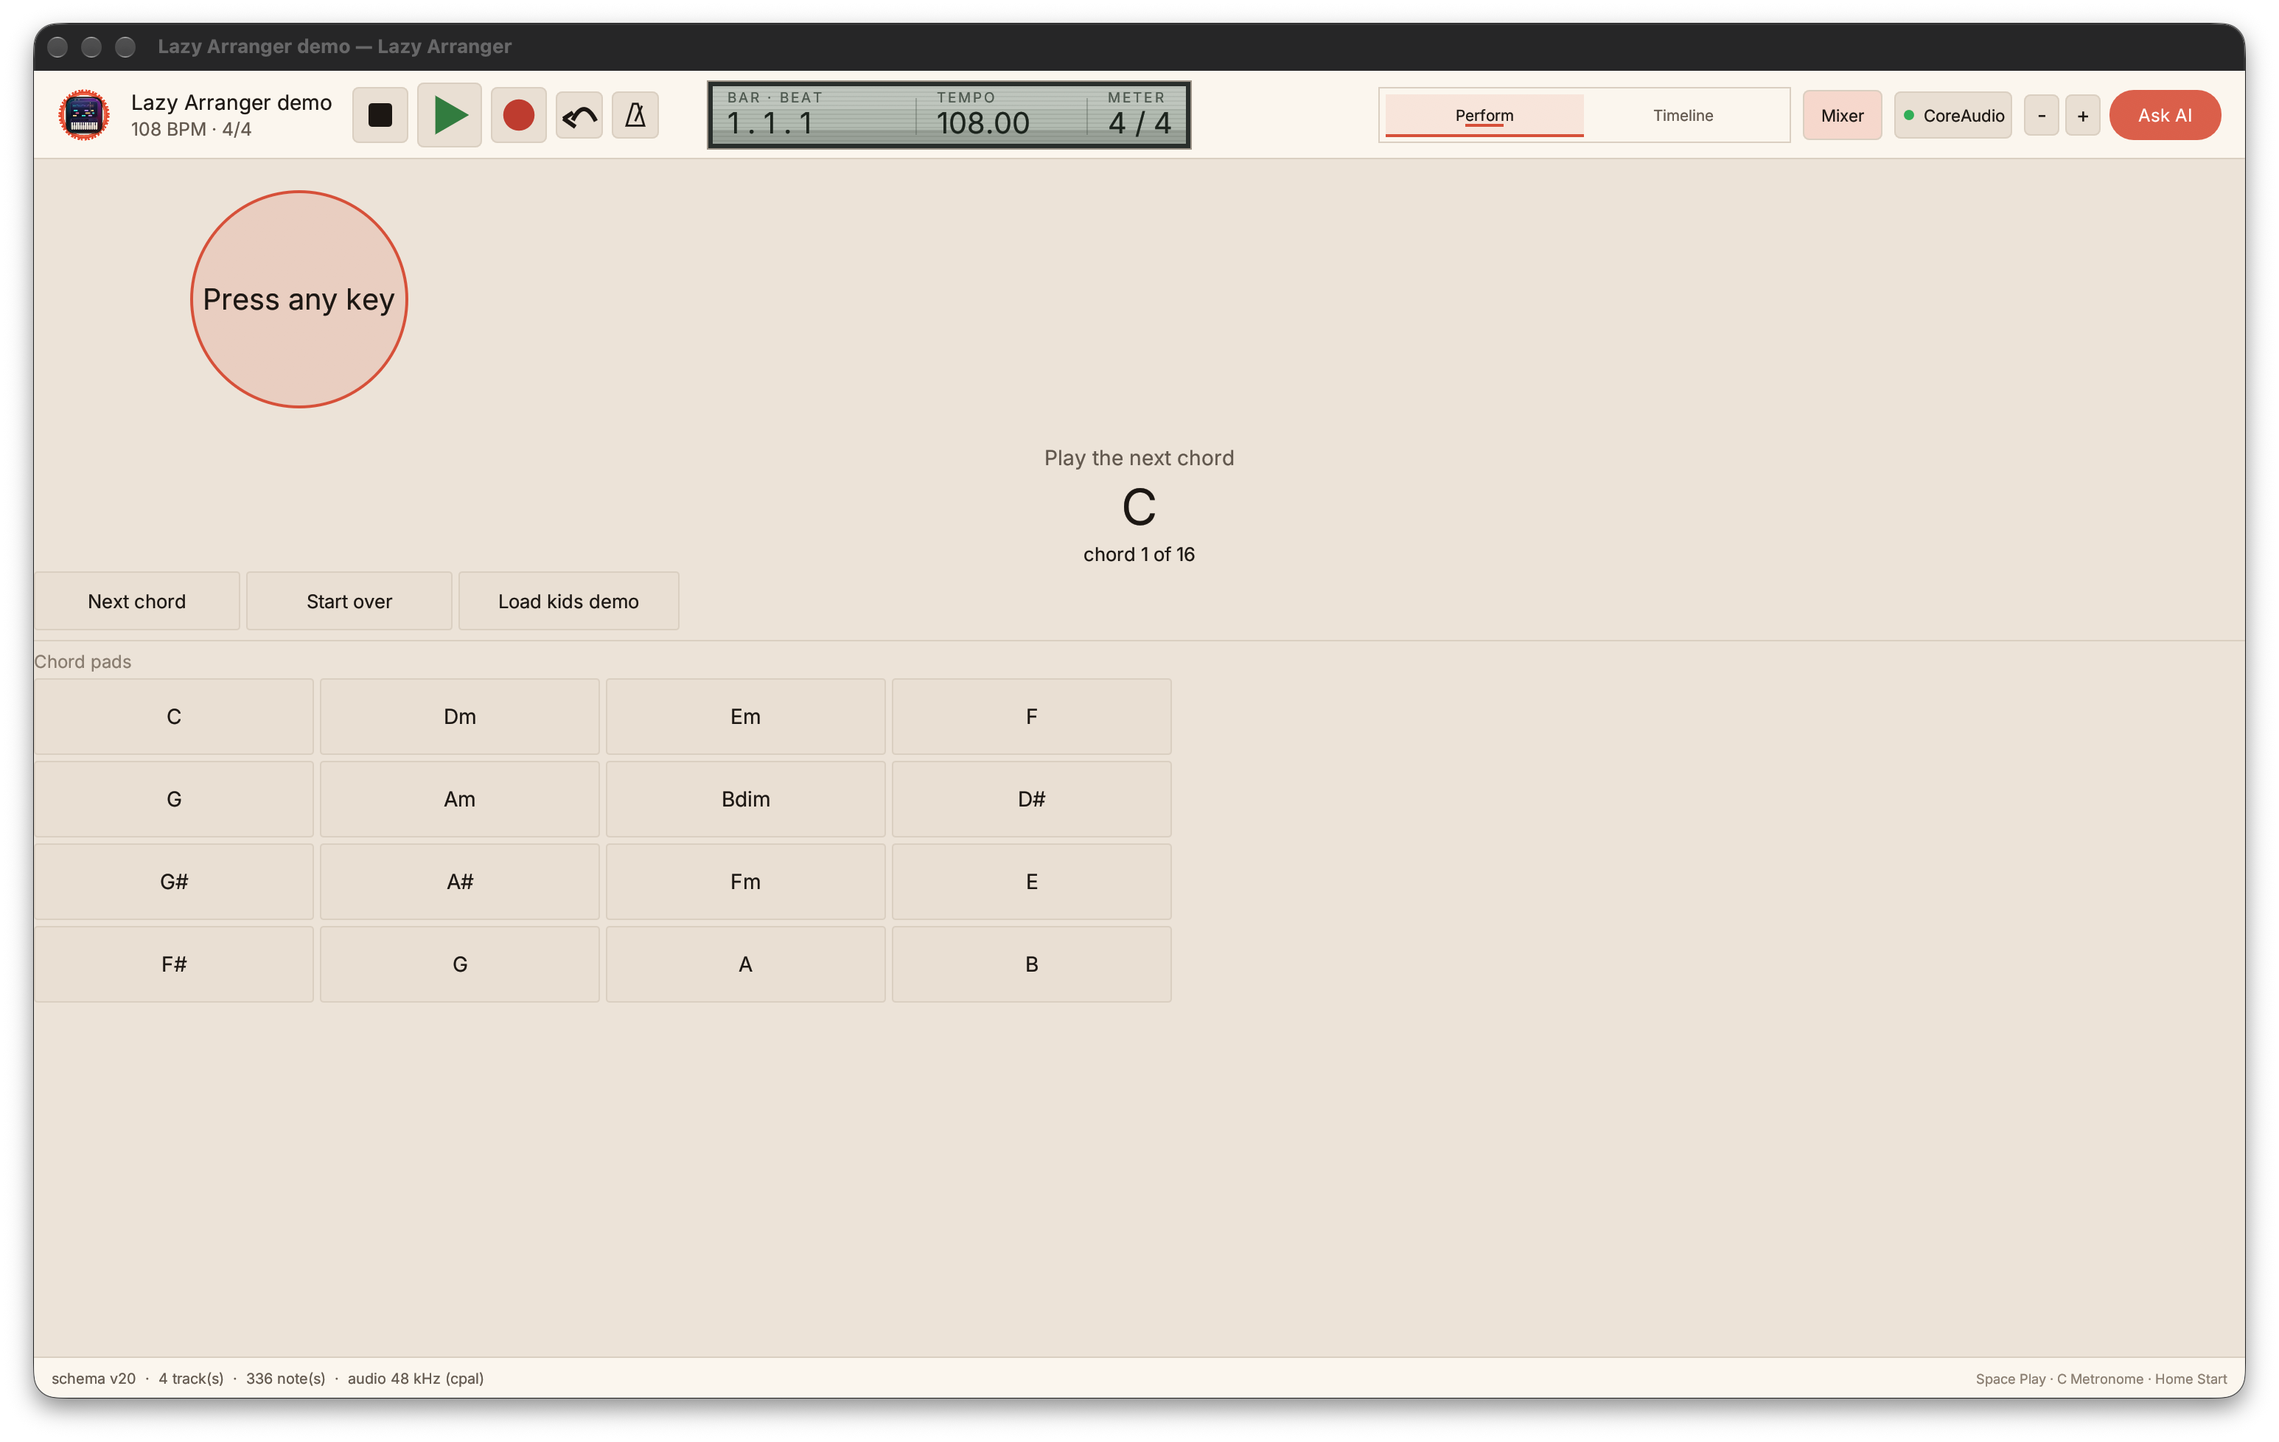
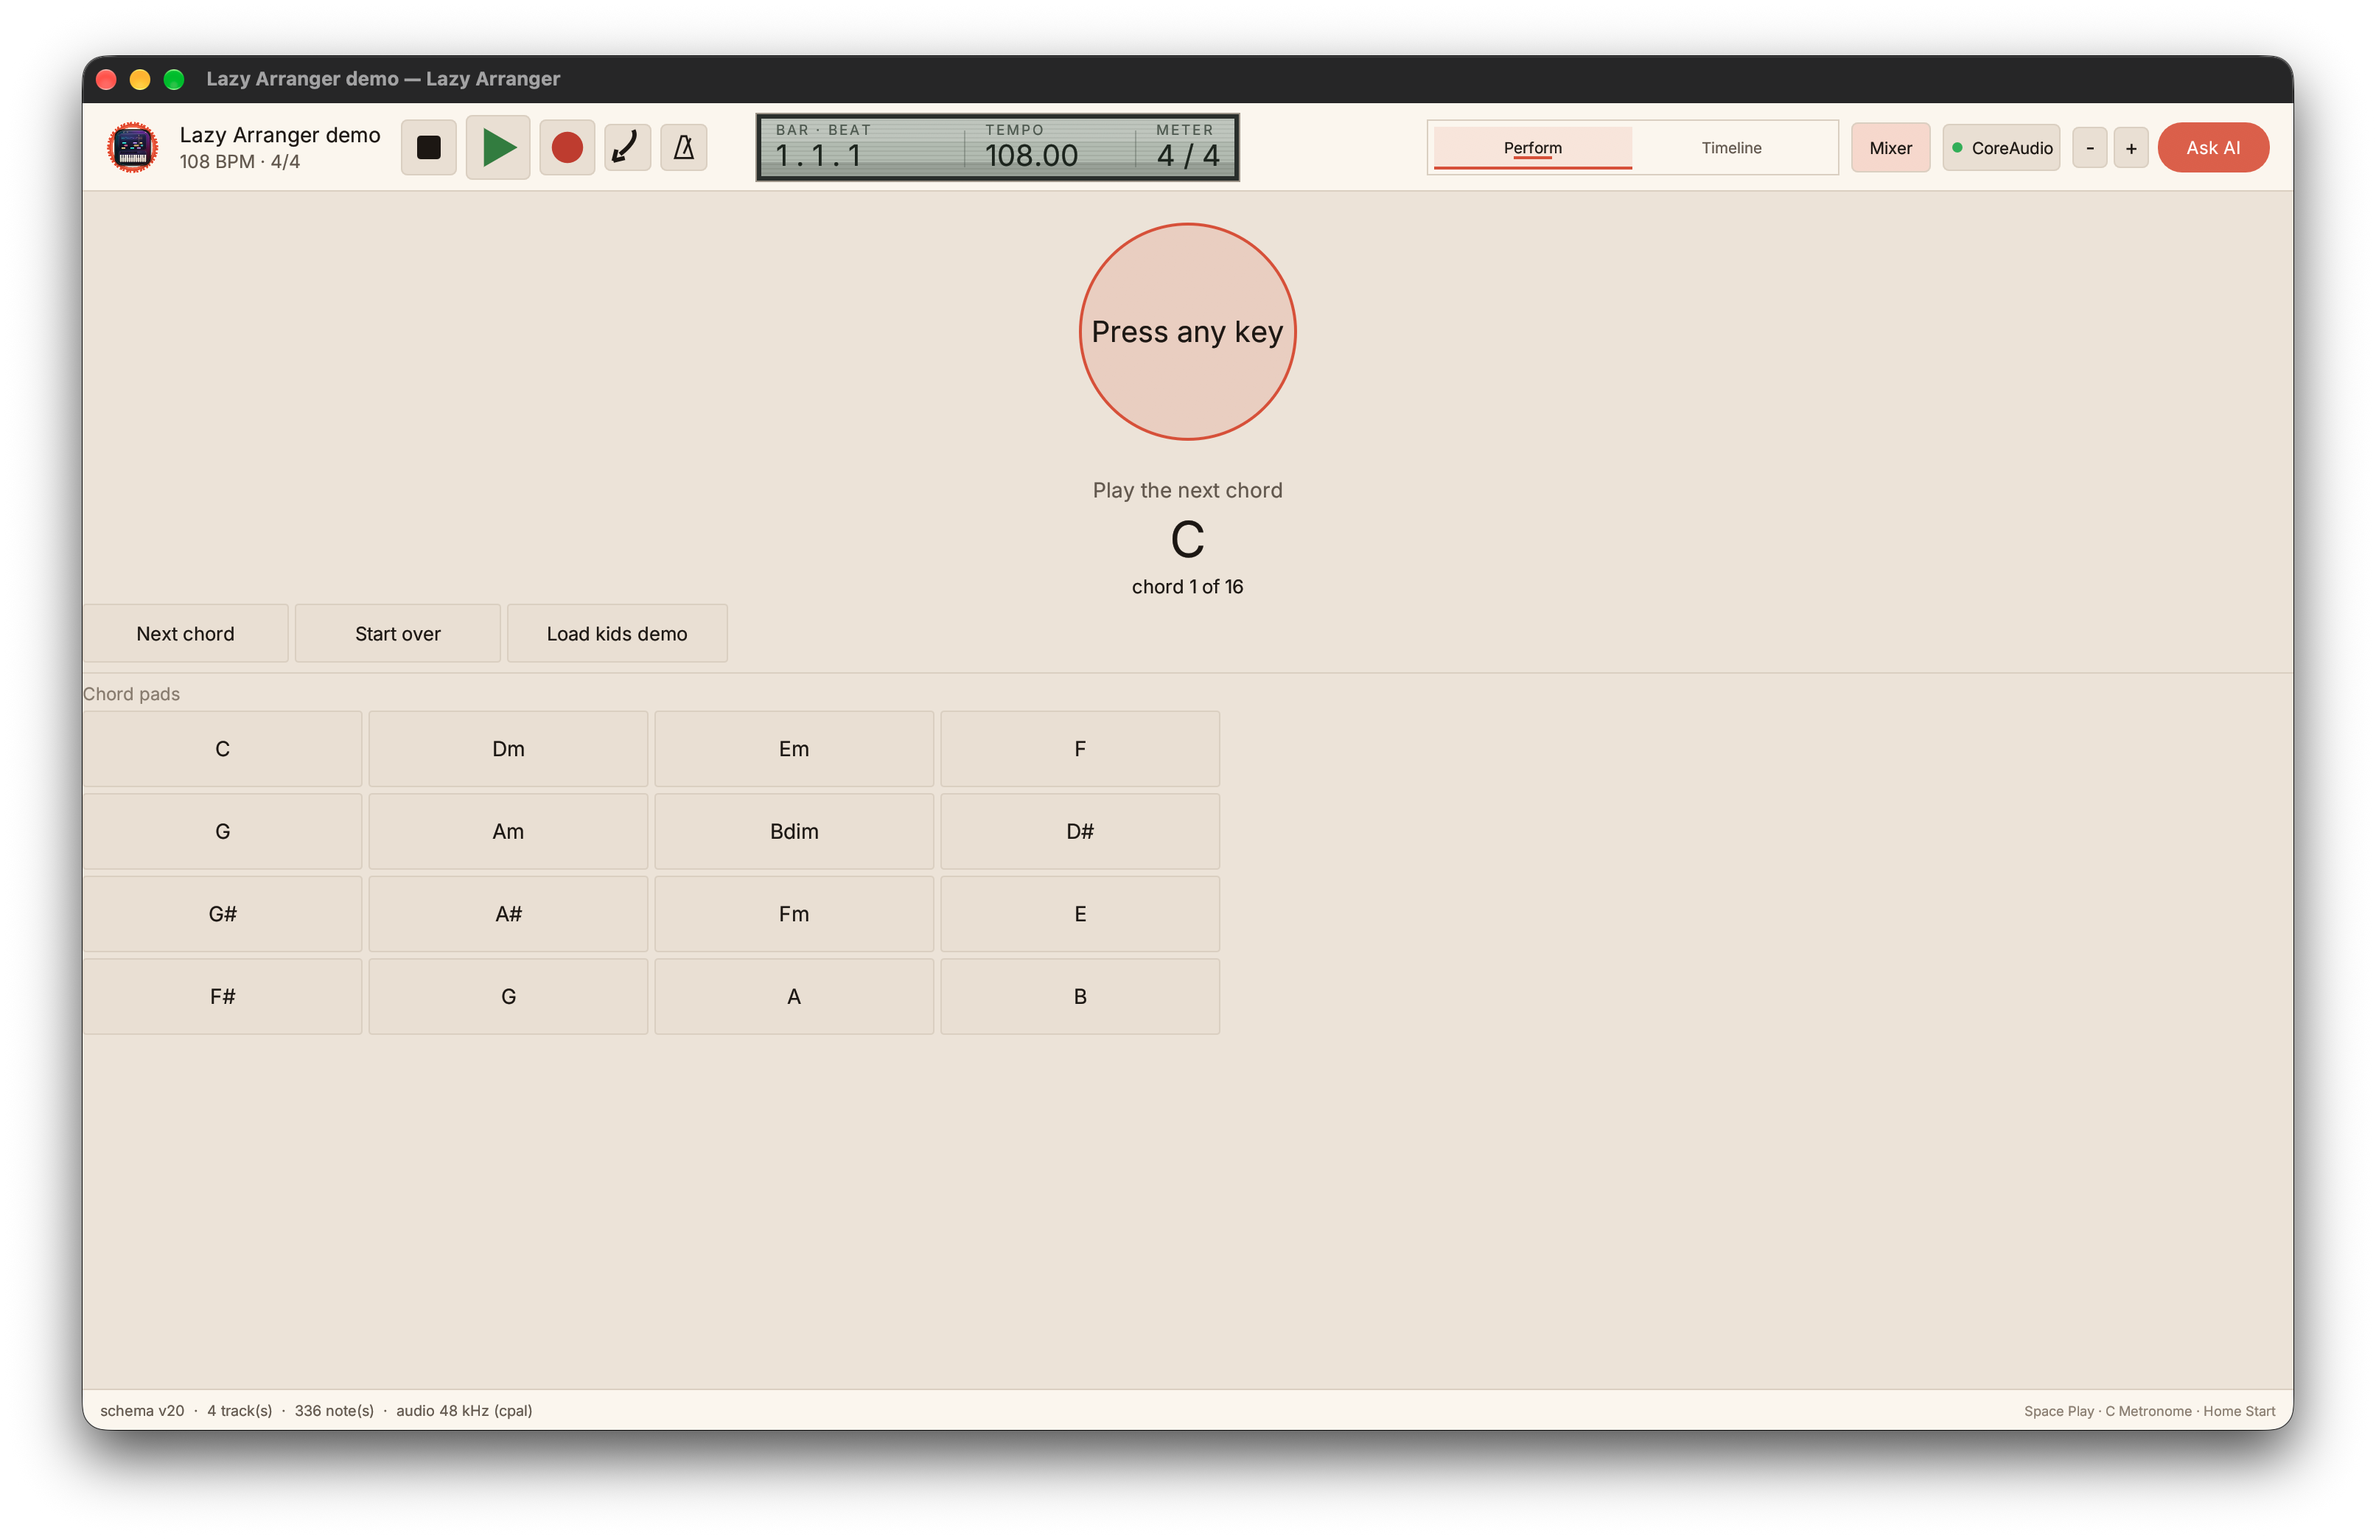
feat(kids): let MIDI start performance and centre the circle
Any incoming MIDI message now starts/refreshes Kids Mode playback, and the large
status circle uses the full panel width so it is centred.

713 tests pass; clippy, fmt and rustdoc clean.

diff --git a/apps/desktop/src/app.rs b/apps/desktop/src/app.rs
@@ -1918,8 +1918,10 @@ impl ShellApp {
         }
         let mut actions = Vec::new();
         let mut learned = None;
+        let mut midi_activity = false;
         if let Some(input) = &self.midi_input {
             while let Some(message) = input.next() {
+                midi_activity = true;
                 self.midi_recent.push_front(midi_label(&message));
                 self.midi_recent.truncate(16);
                 if let music_core::MidiMessage::ControlChange {
@@ -1938,6 +1940,12 @@ impl ShellApp {
                     let value = midi_devices::map::value_of(&message);
                     actions.push((action, value));
                 }
+            }
+        }
+        if midi_activity && self.settings.kids_mode && self.view == View::Perform {
+            self.kids_last_activity = Some(std::time::Instant::now());
+            if !self.playing {
+                self.toggle_playback();
             }
         }
         if let Some((control, action)) = learned {

diff --git a/docs/audit/cpp-features-crosscheck.md b/docs/audit/cpp-features-crosscheck.md
@@ -41,7 +41,7 @@ section below is a row, so nothing is skipped. Status: **verified**,
 | 32 | Arranging help | partial | Arrangement Doctor (crowded bars, repeats) and Fit to My Synths (range octaves, polyphony removal, drum-kit warning) with proposal cards and undo; Doctor and fit cards both have before/after A/B audition through a separate player; the Doctor window has SynthSpec limits (low/high/polyphony/drum kit), fit cards with before/after A/B audition through a separate player, and `fit-project` applies in one command (demo bass: 12 notes moved into 40..80) |
 | 33 | Groove | partial | Timing offset and velocity level per 1/16 slot, extract/apply with timing and accent amounts, feel-match score, G applies the selected track's groove to the others. a Groove library window lists, loads and applies stored files to the selected track with timing/accent sliders (`docs/audit/groove-library.png`); `groove-library save/list/apply`; the demo's drums saved and applied to bass). No audio-derived grooves, word descriptions or Play Before/After |
 | 34 | Song Forms | partial | Sections from markers, Short/Gig/Long-intro/Instrumental presets, plan and apply to timeline with chords and markers, undo. Drum-fill and lead-in transitions with automatic choice (T), plus Hold (sustains the last chord for a bar) and Break (silences the bar before the join) through `form-transition`; on the demo hold added 3 notes and break removed 21. Join loops repeat a marker section in place and shift later notes, chords, lyrics, marks, markers, clips, automation and audio references (`join-loop A --times 2` added 168 notes and 8 chords). No learned preferences |
-| 35 | Kids Mode | partial | Kids Mode opens full-window on Perform with the sidebar, mixer and inspector hidden, a large animated play/pause circle, any key/click starts playback, playback loops the song and pauses after a configurable 0.5-5 s; Settings still restricts tabs to Perform and Arrange and shows a translated banner (`docs/audit/ui-kids.png`). Perform shows Now/Next chords and full-width chord pads; Kids Mode shows a chord step-through that follows song edits (position kept when possible) with Next chord, Start over and a Load kids demo button (four slow chords), above 16 big chord pads that audition. In Arrange the sidebar swaps to large Undo/Redo/Play/Stop/Settings plus Lessons and Theory and hides the record row and advanced window buttons; there is no separate simplified workflow beyond this |
+| 35 | Kids Mode | partial | Kids Mode opens full-window on Perform with the sidebar, mixer and inspector hidden, a large animated play/pause circle, any key, click or MIDI message starts playback, playback loops the song and pauses after a configurable 0.5-5 s; Settings still restricts tabs to Perform and Arrange and shows a translated banner (`docs/audit/ui-kids.png`). Perform shows Now/Next chords and full-width chord pads; Kids Mode shows a chord step-through that follows song edits (position kept when possible) with Next chord, Start over and a Load kids demo button (four slow chords), above 16 big chord pads that audition. In Arrange the sidebar swaps to large Undo/Redo/Play/Stop/Settings plus Lessons and Theory and hides the record row and advanced window buttons; there is no separate simplified workflow beyond this |
 | 36 | Languages (EN/DA/FR/VI/DE/ES/IT/PT) | partial | Eight string tables (English, Danish, French, Vietnamese, German, Spanish, Italian, Portuguese) plus a System default resolved from the POSIX locale, with a runtime switch and per-language completeness tests; the Help window has three sections translated into all eight (`docs/audit/help.png`, Italian sample `docs/audit/help-it.png`) and the right inspector runs full height beside a mixer that ends at its edge, with the master fader as the mixer's far-right strip; the inspector occupies most of the panel with editable track name, a 128-name General MIDI program picker and Audio/MIDI settings, and an inline assistant chat pinned at the bottom (`docs/audit/ui-chat-panel.png`); the Inspector count label follows each language's plural rule (French singular at 0/1, Vietnamese invariant, the others singular at 1). No other locales |
 | 37 | Settings, shortcut editor, updates | partial | Settings file, settings window, shortcut list, MIDI port picker, and an update answer that states no channel is configured. Six bindings (undo/redo/save/save-as/open/play) are editable in the Shortcuts window and used by the keyboard handler, reachable from Windows and F1; About box with version/schema/audio/MCP counts (`docs/audit/about.png`); YAML device profiles load from the profiles folder into a Settings picker (`docs/audit/device-profile.png`), supply keyboard-export programs, and expose CC controls and a SysEx sender in a generic Device editor (`docs/audit/device-editor.png`); no updater or telemetry controls |
 | 38 | Performance and safety: native, idle CPU, plugin scan, damaged-file tolerance | partial | Native Rust, audio thread separate, damaged styles counted; VST3 bundles are scanned in an isolated child with a five-second timeout, and the desktop runs the scan on a worker thread with a progress state; idle CPU is still unmeasured |

diff --git a/docs/audit/final-status.md b/docs/audit/final-status.md
@@ -120,4 +120,4 @@ For the clef layout, choose either four measures per system without clefs
 - Undo glyph redrawn as a left arrow with a curved tail (`docs/audit/ui-undo.png`).
 - Tracks default to the first row; M/S/R clicks no longer change row selection; inspector key has Find.
 - Transport uses green play, red record and an undo arrow rotated 10° CCW (`docs/audit/ui-transport-colors.png`).
-- Kids Mode is full-window Perform: any key/click plays, loops, and auto-pauses after the configured delay; undo arrow now points 45° CCW (`docs/audit/ui-kids.png`, `docs/audit/ui-undo45.png`).
+- Kids Mode is full-window Perform: any key, click or MIDI message plays, loops, and auto-pauses after the configured delay; undo arrow now points 45° CCW (`docs/audit/ui-kids.png`, `docs/audit/ui-undo45.png`).
